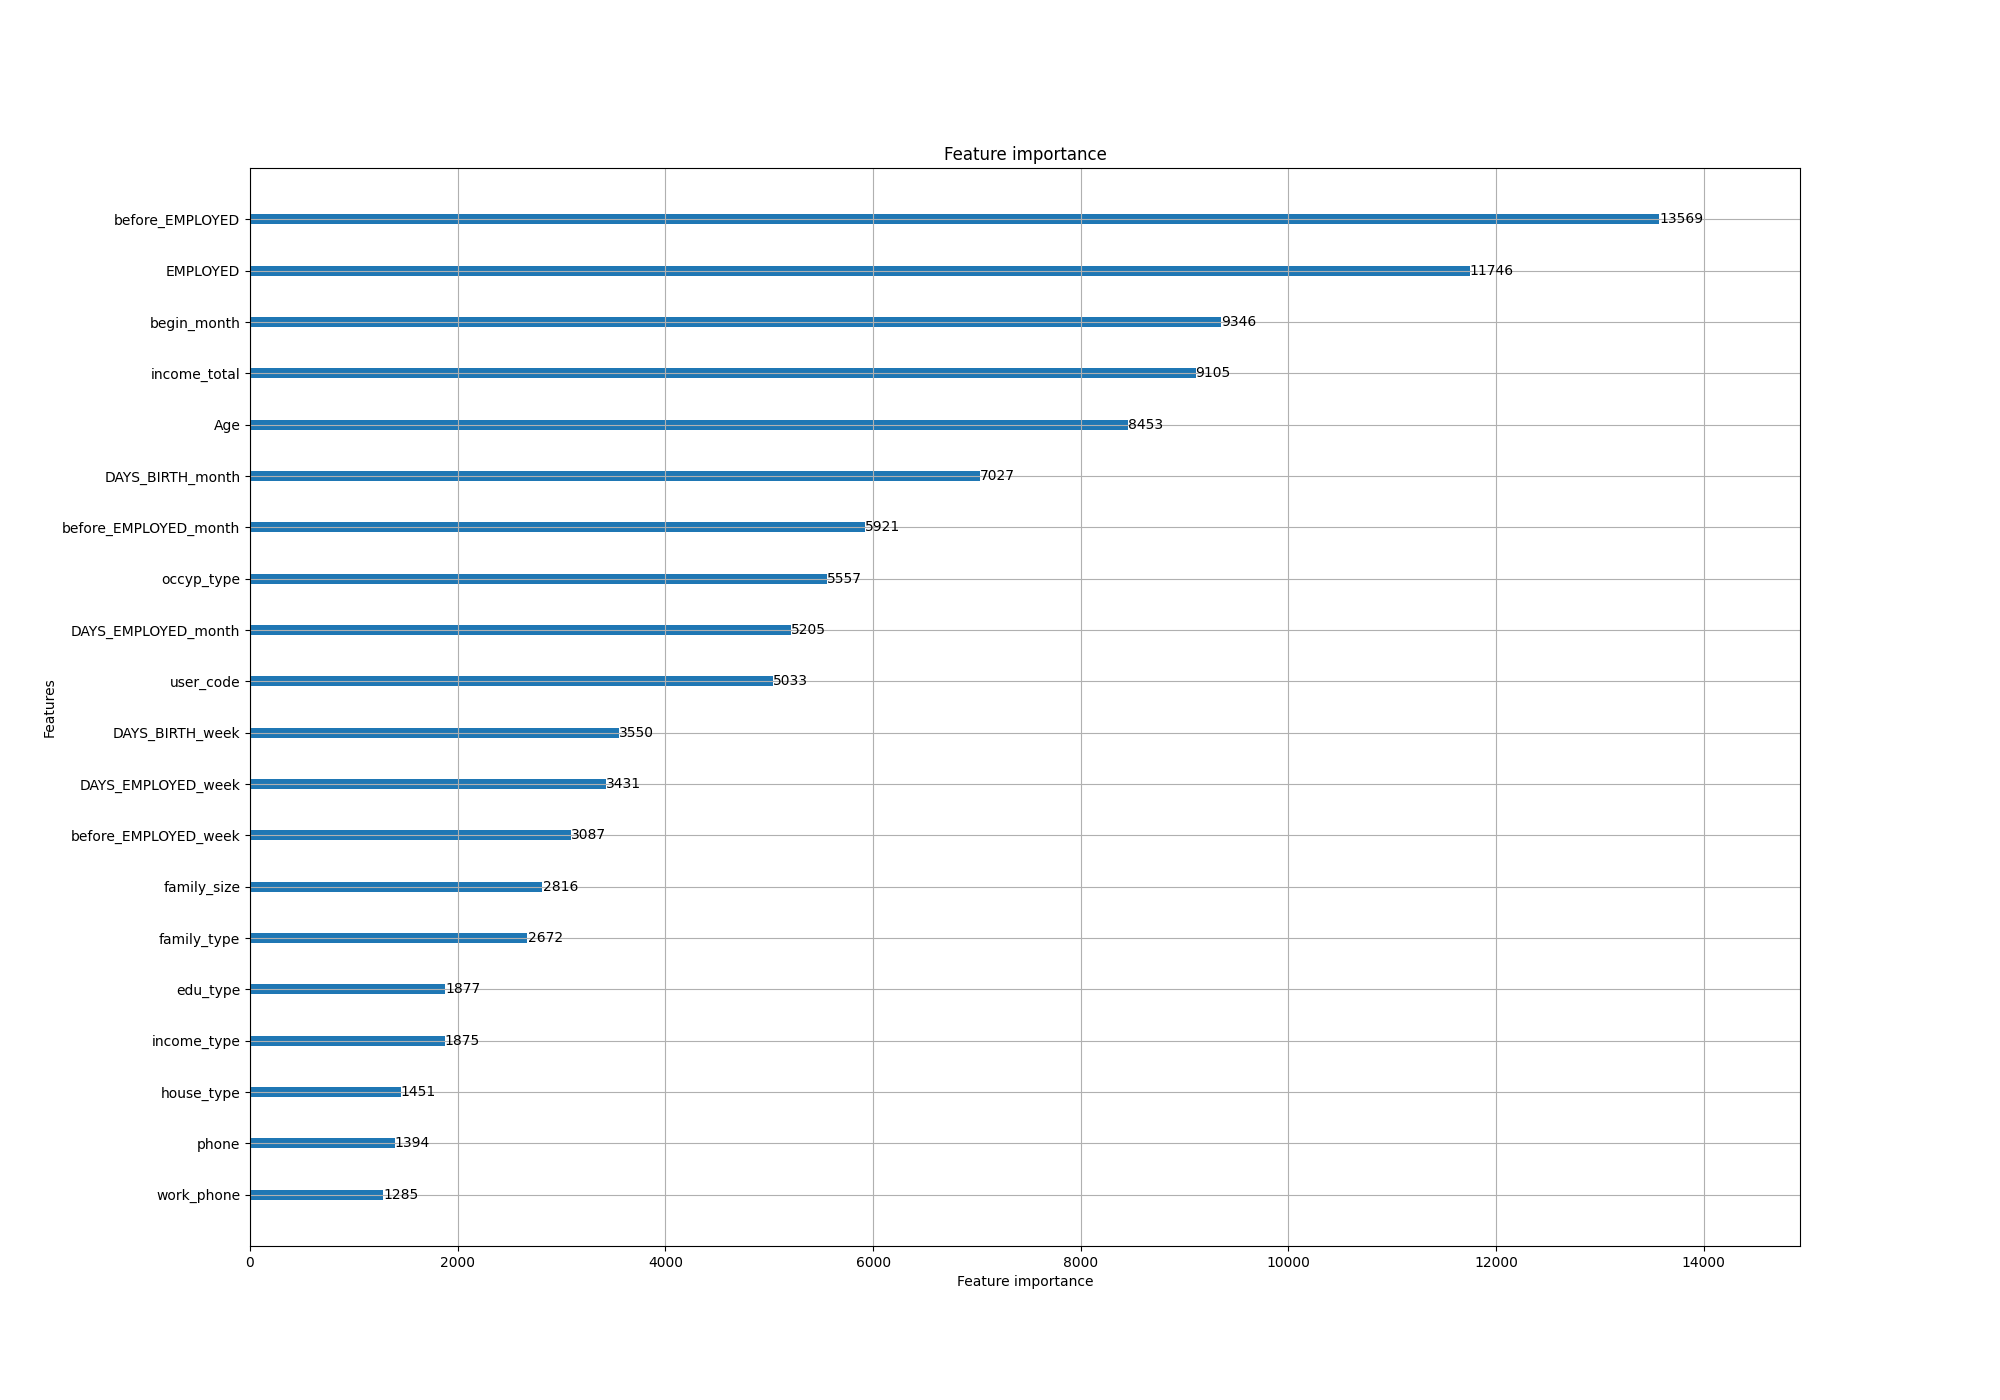
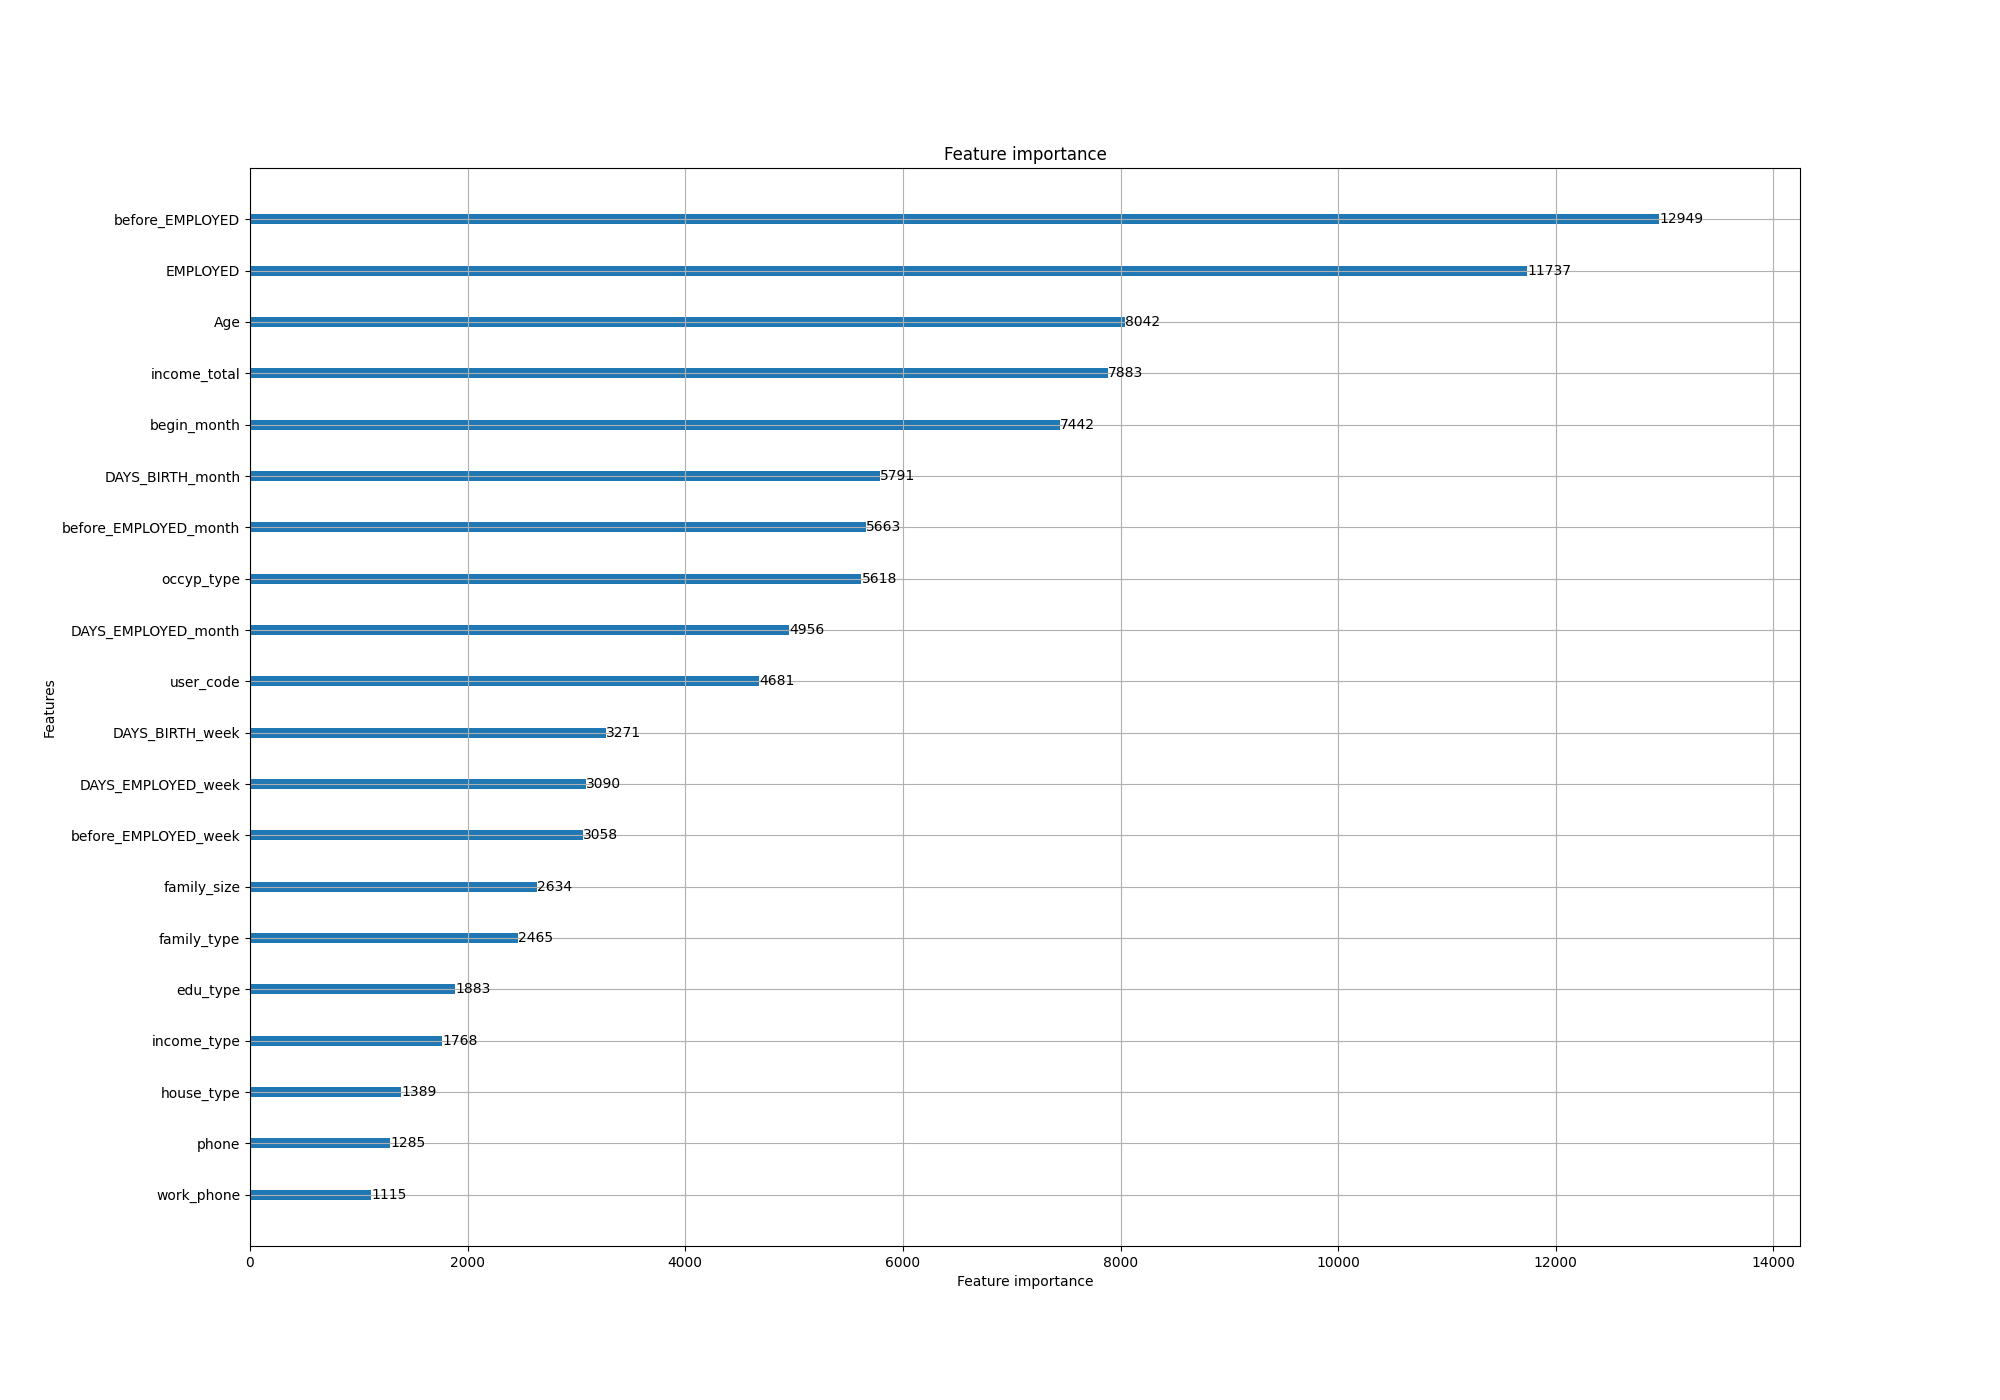
Update!

diff --git a/src/PredictCreditCardDelinquency/xgb_train.py b/src/PredictCreditCardDelinquency/xgb_train.py
@@ -22,11 +22,10 @@ if __name__ == "__main__":
     parse.add_argument("--fold", type=int, default=10)
     args = parse.parse_args()
 
-    xgb_params = pd.read_pickle("../../parameters/best_feg_xgb_params.pkl")
+    xgb_params = pd.read_pickle("../../parameters/best_xgb_params.pkl")
     xgb_oof, xgb_preds = stratified_kfold_xgb(xgb_params, args.fold, X, y, X_test)
 
     submission = pd.read_csv(path + "sample_submission.csv")
     submission.iloc[:, 1:] = xgb_preds
     submission.to_csv(args.path + args.file, index=False)
     joblib.dump(xgb_oof, args.path + "xgb_oof.pkl")
-

diff --git a/src/PredictCreditCardDelinquency/lgbm_train.py b/src/PredictCreditCardDelinquency/lgbm_train.py
@@ -22,7 +22,7 @@ if __name__ == "__main__":
     parse.add_argument("--fold", type=int, default=10)
     args = parse.parse_args()
 
-    lgb_params = pd.read_pickle("../../parameters/feg_lgbm_params.pkl")
+    lgb_params = pd.read_pickle("../../parameters/best_lgbm_params.pkl")
     lgb_oof, lgb_preds = stratified_kfold_lgbm(lgb_params, args.fold, X, y, X_test)
 
     submission = pd.read_csv(path + "sample_submission.csv")
